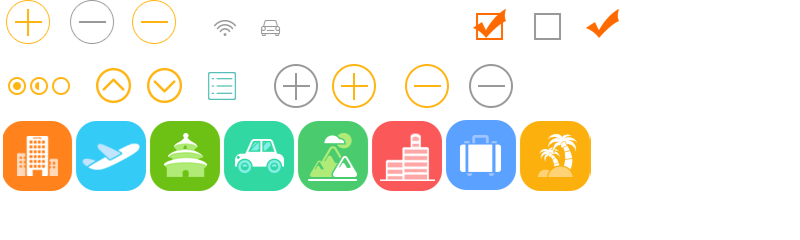
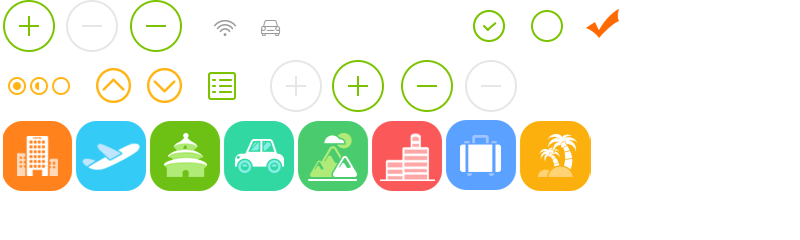
机+酒  资料输入页面修改

diff --git a/assets/styles/dzh.css b/assets/styles/dzh.css
@@ -803,6 +803,9 @@ font-family: 'Microsoft YaHei', STHeiti, Verdana, sans-serif;
     position: relative;
     background: #fff;
 }
+.zy_title:nth-child(2){
+    margin-top:0.32rem;
+}
 .zy_title h3{
     font-size:0.32rem;
     padding-left:0.9rem;
@@ -842,8 +845,8 @@ font-family: 'Microsoft YaHei', STHeiti, Verdana, sans-serif;
 }
 .zy_content2{
     height: 1.58rem;
-    border-top:0.01rem solid #dedede;
-    border-bottom:0.01rem solid #dedede;
+    border-top:1px solid #dedede;
+    border-bottom:1px solid #dedede;
     position: relative;
 }
 .nav2-center{
@@ -902,9 +905,9 @@ section.hotelInfo_numb_room .room_number{
     margin-top:-0.25rem;
 }
 section.hotelInfo_numb_room .room_number span{
-    width:0.5rem;
-    height:0.5rem;
-    background: url(../images/icons1.png) no-repeat 0 2px;
+    width: 0.56rem;
+    height: 0.56rem;
+    background: url(../images/ui/icons1.png) no-repeat 0 2px;
     background-size: 320px auto;
 }
 section.hotelInfo_numb_room span.down_btn{
@@ -918,8 +921,8 @@ section.hotelInfo_numb_room span.up_btn{
     top: 0;
 }
 section.hotelInfo_numb_room i.change_num{
-    height: 0.5rem;
-    line-height: 0.5rem;
+    height: 0.56rem;
+    line-height: 0.58rem;
     font-size: 0.32rem;
     display: block;
     text-align: center;
@@ -934,7 +937,7 @@ section.hotelInfo_numb_room .title{
 .hotelInfo_numb_people{
     font-size: 0.32rem;
     background: #fff;
-    border-bottom:0.01rem solid #e6e6e6;
+    border-bottom:1px solid #e6e6e6;
     padding: 0.1rem 0 0.2rem 0.25rem;
     position: relative;
 }
@@ -967,7 +970,7 @@ section.hotelInfo_numb_room .title{
 .zy_price_control,.hotelInfo_numb_people .childAge{
     float: right;
     width: 1.6rem;
-    height: 0.5rem;
+    height: 0.56rem;
     position: relative;
 }
 .hotelInfo_numb_people .childAge{
@@ -977,9 +980,9 @@ section.hotelInfo_numb_room .title{
     width: 60%;
 }
 .zy_price_control span,.hotelInfo_numb_people .childAge span{
-    width: 0.5rem;
-    height: 0.5rem;
-    background: url(../images/icons1.png) no-repeat 0 2px;
+    width: 0.56rem;
+    height: 0.56rem;
+    background: url(../images/ui/icons1.png) no-repeat 0 2px;
     background-size: 320px auto;
     position: absolute;
     top: 0;
@@ -1010,8 +1013,8 @@ section.hotelInfo_numb_room .title{
 }
 .zy_price_control i.change_num{
     display: block;
-    height: 0.5rem;
-    line-height: 0.55rem;
+    height: 0.56rem;
+    line-height: 0.58rem;
     margin: 0 0.5rem;
     text-align: center;
 }
@@ -1021,7 +1024,7 @@ section.hotelInfo_numb_room .title{
 .zy_orderBtn button{
     display: block;
     width: 100%;
-    background: #fdb330;
+    background: #7bc300;
     color: #fff;
     text-align: center;
     height:0.8rem;
@@ -1035,10 +1038,11 @@ section.hotelInfo_numb_room .title{
     background: #fff;
 }
 .zy_tourTime .nav2-tour{
-    border-bottom:0.01rem solid #dedede;
+    border-bottom:1px solid #dedede;
     padding: 0.15rem 0 0.3rem 0;
     border-top:1px solid #e6e6e6;
     color: #333;
+    margin: -1px 0 ;
 }
 .zy_tourTime .nav2-tour>div:nth-child(1){
     margin-left:0.3rem;
@@ -1049,7 +1053,7 @@ section.hotelInfo_numb_room .title{
     white-space: nowrap;
     font-size: 0.32rem;
     text-overflow: ellipsis;
-    border-left: 0.1rem solid #fdb330;
+    border-left: 0.1rem solid #7bc300;
     padding-left: 0.2rem;
 }
 .zy_all_day{
@@ -1064,8 +1068,8 @@ section.hotelInfo_numb_room .title{
     height: 0.62rem;
     line-height: 0.62rem;
     text-align: center;
-    border-radius:0.03rem;
-    border:0.01rem solid #d1d1d1;
+    border-radius:4px;
+    border:1px solid #d1d1d1;
     color:#333;
 }
 .zy_all_day div:nth-child(1),.zy_all_day div:nth-child(3){
@@ -1073,8 +1077,8 @@ section.hotelInfo_numb_room .title{
     top:0;
 }
 .zy_all_day div.tourcho{
-    border: 1px solid #fdb330;
-    color: #fdb330;
+    border: 1px solid #7bc300;
+    color: #7bc300;
     background: url(../images/icon_z.png) no-repeat right bottom;
     background-size: 0.44rem 0.38rem;
 }
@@ -1093,10 +1097,10 @@ section.hotelInfo_numb_room .title{
     position: relative;
 }
 .nav2-tour>div:nth-child(2)>i{
-    background-image: url(../images/icon-h.png);
+    background-image: url(../images/ui/icon_common.png);
     background-repeat: no-repeat;
-    background-size:8.04rem 3.48rem;
-    background-position: -4.96rem -0.26rem ;
+    background-size:7.9rem 5.13rem;
+    background-position: -6.78rem -2.37rem ;
     position: absolute;
     width:0.38rem;
     height:0.38rem;
